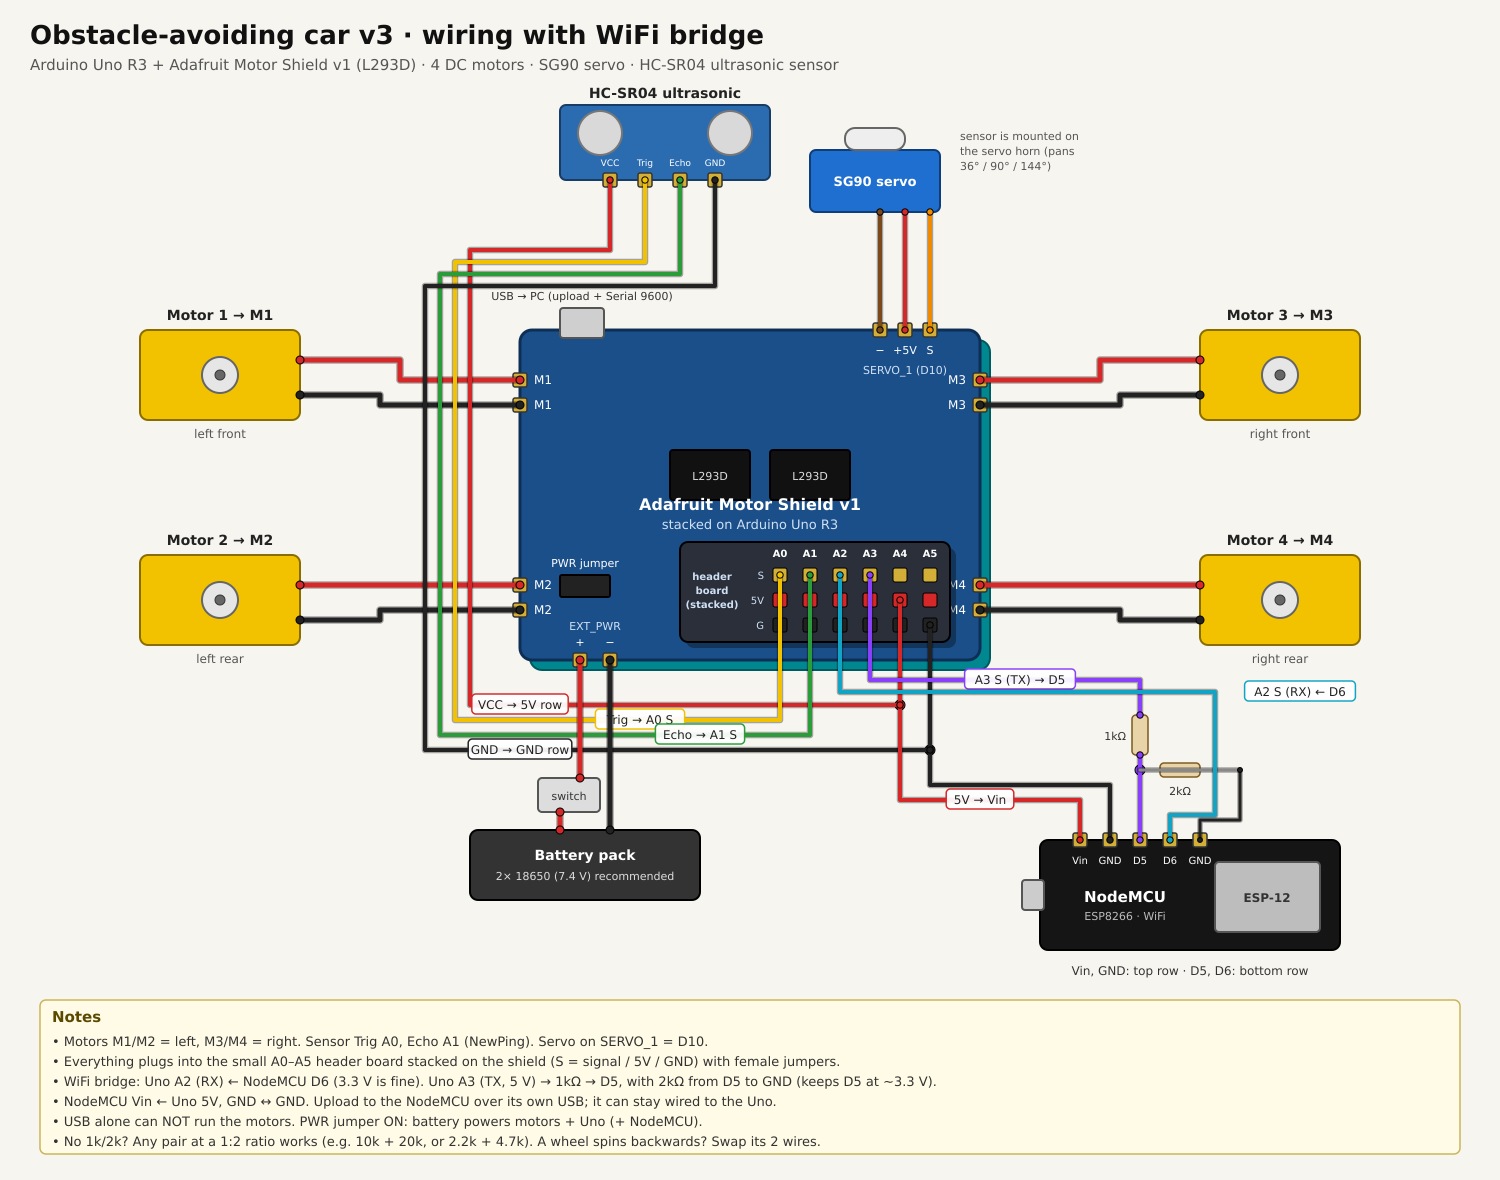
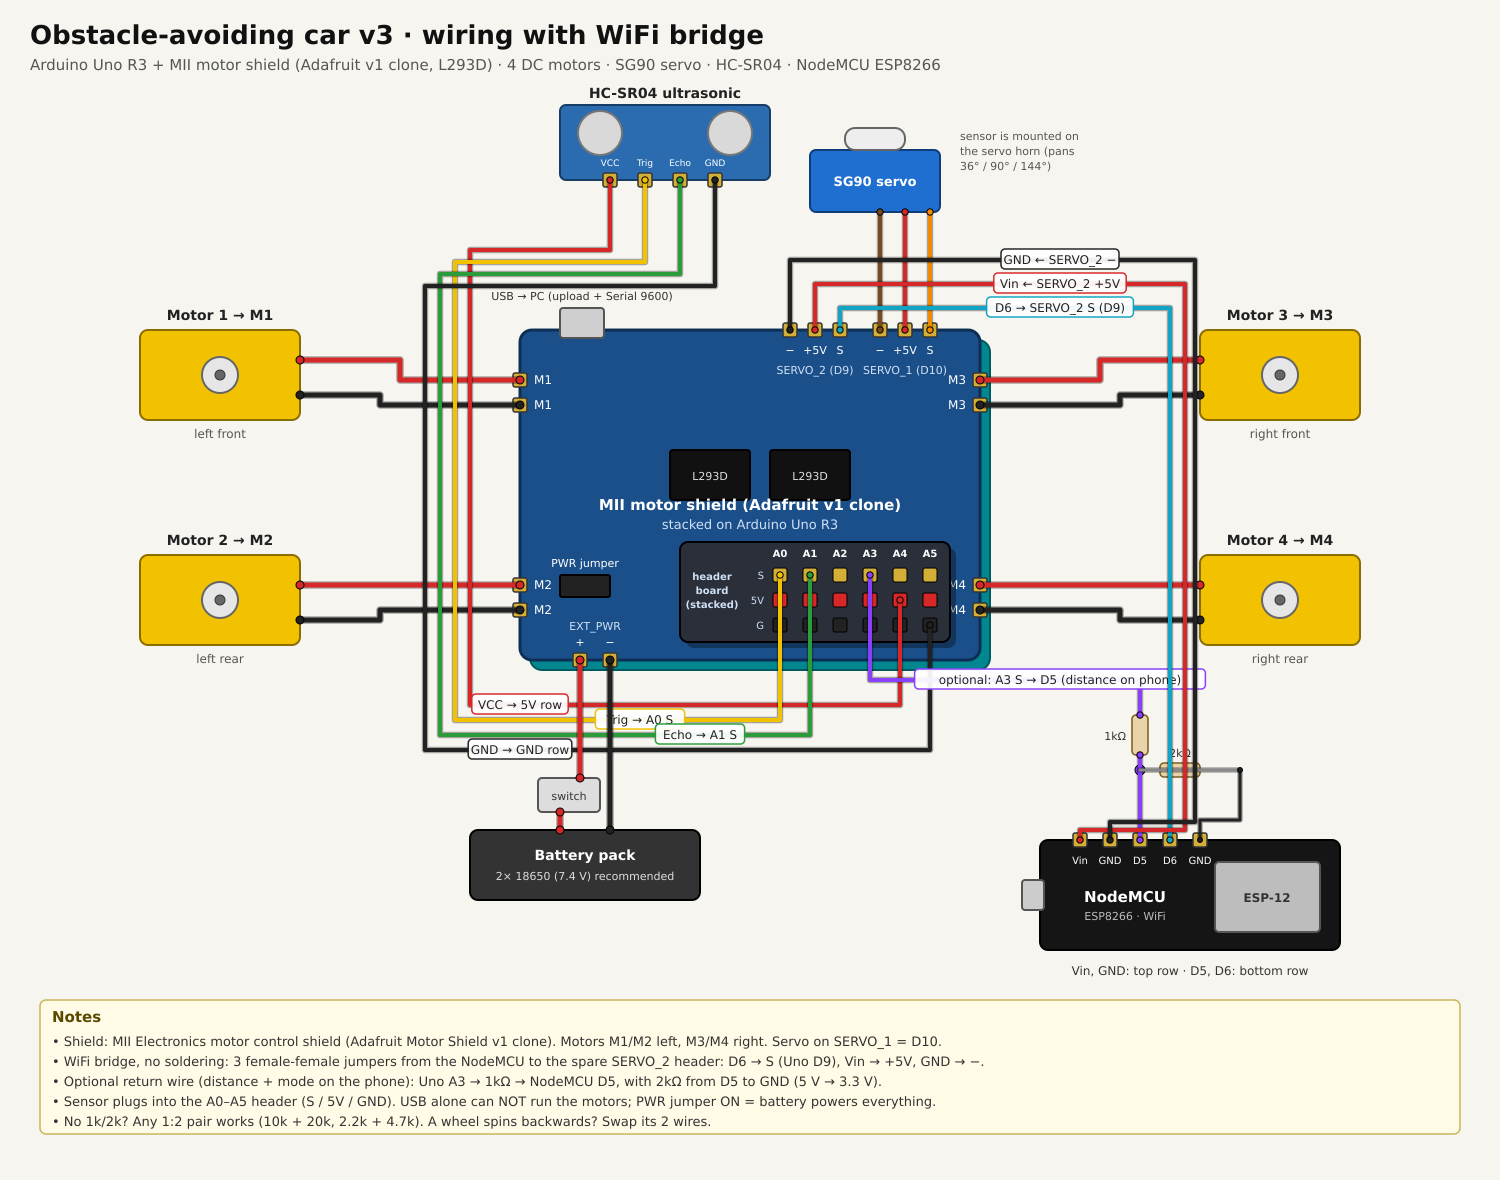
v3 docs: SERVO_2 wiring, updated diagram
Claude-Session: https://claude.ai/code/session_015okV5xhpTSJ7BsUHd5BTGs

diff --git a/docs/src/gen_car_wifi.py b/docs/src/gen_car_wifi.py
@@ -3,7 +3,7 @@ from svglib import SVG
 
 s = SVG(1500, 1180)
 s.title("Obstacle-avoiding car v3 · wiring with WiFi bridge",
-        "Arduino Uno R3 + Adafruit Motor Shield v1 (L293D) · 4 DC motors · SG90 servo · HC-SR04 ultrasonic sensor")
+        "Arduino Uno R3 + MII motor shield (Adafruit v1 clone, L293D) · 4 DC motors · SG90 servo · HC-SR04 · NodeMCU ESP8266")
 
 # ---------------- board (Uno with shield stacked on top) ----------------
 X0, Y0, BW, BH = 520, 330, 460, 330
@@ -13,7 +13,7 @@ s.rect(X0 + 150, Y0 + 120, 80, 50, fill="#111", stroke="#000", rx=3)            
 s.rect(X0 + 250, Y0 + 120, 80, 50, fill="#111", stroke="#000", rx=3)
 s.text(X0 + 190, Y0 + 150, "L293D", 11, "#ddd", "middle")
 s.text(X0 + 290, Y0 + 150, "L293D", 11, "#ddd", "middle")
-s.text(X0 + BW / 2, Y0 + 180, "Adafruit Motor Shield v1", 16, "#fff", "middle", "bold")
+s.text(X0 + BW / 2, Y0 + 180, "MII motor shield (Adafruit v1 clone)", 15, "#fff", "middle", "bold")
 s.text(X0 + BW / 2, Y0 + 199, "stacked on Arduino Uno R3", 13, "#cfe0f5", "middle")
 s.rect(X0 + 40, Y0 + 245, 50, 22, fill="#222", stroke="#000", rx=2)
 s.text(X0 + 65, Y0 + 237, "PWR jumper", 11, "#fff", "middle")
@@ -40,6 +40,9 @@ for lab, y in (("M3", 380), ("M3", 405), ("M4", 585), ("M4", 610)):
 for lab, x in (("−", 880), ("+5V", 905), ("S", 930)):
     edge_pin(x, Y0, lab, "top")
 s.text(905, Y0 + 44, "SERVO_1 (D10)", 11, "#cfe0f5", "middle")
+for lab, x in (("−", 790), ("+5V", 815), ("S", 840)):
+    edge_pin(x, Y0, lab, "top")
+s.text(815, Y0 + 44, "SERVO_2 (D9)", 11, "#cfe0f5", "middle")
 # A0-A5 3-row header on the shield (signal / 5V / GND), servo-style: sensor plugs in with female jumpers
 COLS = {f"A{i}": 780 + i * 30 for i in range(6)}
 HS, H5, HG = 575, 600, 625
@@ -136,30 +139,27 @@ for lab, x in NP.items():
     s.text(x, NY + 24, "GND" if lab == "GND2" else lab, 10, "#fff", "middle")
 
 BY = Y0 + BH
-s.wire([(900, 705), (900, 800), (NP["Vin"], 800), (NP["Vin"], NY)], "red", 4, "5V → Vin", (980, 800))
-s.circle(900, 705, 5, fill="#d62828", stroke="#000", sw=1)
-s.wire([(930, 750), (930, 785), (NP["GND"], 785), (NP["GND"], NY)], "black", 4)
-s.circle(930, 750, 5, fill="#222", stroke="#000", sw=1)
 # Uno A3 (TX, 5 V) -> 1k -> node -> D5 ; node -> 2k -> GND  (5 V -> 3.3 V)
-s.wire([(COLS["A3"], HS), (COLS["A3"], 680), (NP["D5"], 680), (NP["D5"], 715)], "purple", 4, "A3 S (TX) → D5", (1020, 680))
+s.wire([(COLS["A3"], HS), (COLS["A3"], 680), (NP["D5"], 680), (NP["D5"], 715)], "purple", 4, "optional: A3 S → D5 (distance on phone)", (1060, 680))
 s.wire([(NP["D5"], 755), (NP["D5"], NY)], "purple", 4)
 s.rect(NP["D5"] - 8, 715, 16, 40, fill="#e8d4a8", stroke="#7a5a1e", sw=1.5, rx=4)
 s.text(NP["D5"] - 14, 740, "1kΩ", 11, "#333", "end")
 s.wire([(NP["D5"], 770), (NP["GND2"] + 40, 770)], "gray", 3, dots=False)
 s.rect(NP["D5"] + 20, 763, 40, 14, fill="#e8d4a8", stroke="#7a5a1e", sw=1.5, rx=4)
-s.text(NP["D5"] + 40, 795, "2kΩ", 11, "#333", "middle")
+s.text(NP["D5"] + 40, 757, "2kΩ", 11, "#333", "middle")
 s.circle(NP["D5"], 770, 5, fill="#8a3ffc", stroke="#000", sw=1)
 s.wire([(NP["GND2"] + 40, 770), (NP["GND2"] + 40, 820), (NP["GND2"], 820), (NP["GND2"], NY)], "black", 3)
-s.wire([(COLS["A2"], HS), (COLS["A2"], 692), (1215, 692), (1215, 815), (NP["D6"], 815), (NP["D6"], NY)], "cyan", 4,
-       "A2 S (RX) ← D6", (1300, 692))
+
+s.wire([(NP["D6"], NY), (NP["D6"], 308), (840, 308), (840, Y0)], "cyan", 4, "D6 → SERVO_2 S (D9)", (1060, 308))
+s.wire([(NP["Vin"], NY), (NP["Vin"], 830), (1185, 830), (1185, 284), (815, 284), (815, Y0)], "red", 4, "Vin ← SERVO_2 +5V", (1060, 284))
+s.wire([(NP["GND"], NY), (NP["GND"], 822), (1195, 822), (1195, 260), (790, 260), (790, Y0)], "black", 4, "GND ← SERVO_2 −", (1060, 260))
 
 s.legend_box(40, 1000, 1420, [
-    "• Motors M1/M2 = left, M3/M4 = right. Sensor Trig A0, Echo A1 (NewPing). Servo on SERVO_1 = D10.",
-    "• Everything plugs into the small A0–A5 header board stacked on the shield (S = signal / 5V / GND) with female jumpers.",
-    "• WiFi bridge: Uno A2 (RX) ← NodeMCU D6 (3.3 V is fine). Uno A3 (TX, 5 V) → 1kΩ → D5, with 2kΩ from D5 to GND (keeps D5 at ~3.3 V).",
-    "• NodeMCU Vin ← Uno 5V, GND ↔ GND. Upload to the NodeMCU over its own USB; it can stay wired to the Uno.",
-    "• USB alone can NOT run the motors. PWR jumper ON: battery powers motors + Uno (+ NodeMCU).",
-    "• No 1k/2k? Any pair at a 1:2 ratio works (e.g. 10k + 20k, or 2.2k + 4.7k). A wheel spins backwards? Swap its 2 wires.",
+    "• Shield: MII Electronics motor control shield (Adafruit Motor Shield v1 clone). Motors M1/M2 left, M3/M4 right. Servo on SERVO_1 = D10.",
+    "• WiFi bridge, no soldering: 3 female-female jumpers from the NodeMCU to the spare SERVO_2 header: D6 → S (Uno D9), Vin → +5V, GND → −.",
+    "• Optional return wire (distance + mode on the phone): Uno A3 → 1kΩ → NodeMCU D5, with 2kΩ from D5 to GND (5 V → 3.3 V).",
+    "• Sensor plugs into the A0–A5 header (S / 5V / GND). USB alone can NOT run the motors; PWR jumper ON = battery powers everything.",
+    "• No 1k/2k? Any 1:2 pair works (10k + 20k, 2.2k + 4.7k). A wheel spins backwards? Swap its 2 wires.",
 ], "Notes")
 
 s.save(sys.argv[1])

diff --git a/README.md b/README.md
@@ -79,16 +79,21 @@ Auto mode prints `DIST <cm>` twice a second and `SCAN L=.. R=..` on each avoidan
 ![Wiring with WiFi bridge](docs/wiring-wifi.png)
 
 Two sketches:
-- `obstacle_car_v3_wifi/` goes on the **Uno**. It's v2 plus a second serial link on A2/A3, a status line for the phone, and a safety stop.
+- `obstacle_car_v3_wifi/` goes on the **Uno**. It's v2 plus a second serial link (commands in on D9 / SERVO_2, optional status out on A3) and a safety stop.
 - `esp8266_bridge/` goes on the **NodeMCU**. It handles WiFi setup, the phone web page, and over-the-air updates.
 
-### Extra wiring
-| From | To |
+### Extra wiring (no soldering)
+Use 3 female-to-female jumpers to the shield's **spare servo header** (the empty one of the two, **SERVO_2 = D9**):
+
+| NodeMCU | SERVO_2 header |
 |---|---|
-| NodeMCU **D6** (bottom row) | header **A2 S** (direct) |
-| header **A3 S** | **1 kΩ** → NodeMCU **D5** (bottom row), plus **2 kΩ** from D5 to GND (5 V → 3.3 V) |
-| NodeMCU **Vin** (top row) | header **5V** row |
-| NodeMCU **GND** (top row) | header **GND** row |
+| **D6** (bottom row) | **S** (Uno D9) |
+| **Vin** (top row) | **+** (5 V) |
+| **GND** (top row) | **−** |
+
+**Optional return wire** (shows distance and mode on the phone): Uno **A3** → **1 kΩ** → NodeMCU **D5**, plus **2 kΩ** from D5 to GND. Without it, driving works and the page shows "connected · no feedback wire".
+
+If the servo stops sweeping after you plug in the NodeMCU, the two headers are swapped on your board. Swap the plugs.
 
 ### Setting up the NodeMCU (once)
 1. Arduino IDE → File → Preferences → Additional Boards Manager URLs: `http://arduino.esp8266.com/stable/package_esp8266com_index.json`
